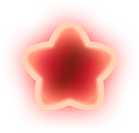
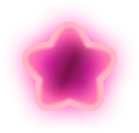
fix: selected color amount is now properly set and send

diff --git a/src/main/resources/view/demo.js b/src/main/resources/view/demo.js
@@ -1,2 +1,2 @@
 export const demo = 
-{"views":["KEY_FRAME 0\n{\"global\":{\"graphics\":\"24\\n1 -1 5\\n-1 -1 12\\n3 -1 33\\n-3 -1 46\\n0 -3 28\\n2 -3 30\\n4 -3 54\\n-1 4 38\\n-3 4 40\\n0 2 7\\n-2 2 9\\n-4 2 43\\n2 2 59\\n-1 0 3\\n1 0 6\\n-3 0 25\\n3 0 34\\n0 -2 13\\n2 -2 15\\n-2 -2 47\\n4 -2 55\\n1 -4 50\\n3 -4 52\\n0 3 19\\n-2 3 21\\n-4 3 42\\n-1 1 2\\n1 1 18\\n-3 1 24\\n3 1 58\\n0 -1 4\\n2 -1 16\\n-2 -1 26\\n4 -1 56\\n1 -3 29\\n3 -3 31\\n-1 -3 48\\n0 4 37\\n-2 4 39\\n-4 4 41\\n-1 2 8\\n-3 2 23\\n1 2 36\\n0 0 0\\n-2 0 11\\n2 0 17\\n-4 0 45\\n4 0 57\\n1 -2 14\\n-1 -2 27\\n3 -2 32\\n0 -4 49\\n2 -4 51\\n4 -4 53\\n-1 3 20\\n-3 3 22\\n1 3 60\\n0 1 1\\n-2 1 10\\n2 1 35\\n-4 1 44\"},\"frame\":{\"duration\":500,\"graphics\":\"0\\n0\\n\\n0\\n\"}}\n","KEY_FRAME 1\n{\"graphics\":\"0\\n0\\n\\n0\\n\"}\n","KEY_FRAME 2\n{\"graphics\":\"0\\n0\\n\\n0\\n\"}\n","KEY_FRAME 3\n{\"graphics\":\"0\\n0\\n\\n0\\n\"}\n","KEY_FRAME 4\n{\"graphics\":\"0\\n0\\n\\n0\\n\"}\n","KEY_FRAME 5\n{\"graphics\":\"0\\n0\\n\\n0\\n\"}\n","KEY_FRAME 6\n{\"graphics\":\"0\\n0\\n\\n0\\n\"}\n","KEY_FRAME 7\n{\"graphics\":\"0\\n0\\n\\n0\\n\"}\n","KEY_FRAME 8\n{\"graphics\":\"0\\n0\\n\\n0\\n\"}\n","KEY_FRAME 9\n{\"graphics\":\"0\\n0\\n\\n0\\n\"}\n","KEY_FRAME 10\n{\"graphics\":\"0\\n0\\n\\n0\\n\"}\n","KEY_FRAME 11\n{\"graphics\":\"0\\n0\\n\\n0\\n\"}\n","KEY_FRAME 12\n{\"graphics\":\"0\\n0\\n\\n0\\n\"}\n","KEY_FRAME 13\n{\"graphics\":\"0\\n0\\n\\n0\\n\"}\n","KEY_FRAME 14\n{\"graphics\":\"0\\n0\\n\\n0\\n\"}\n","KEY_FRAME 15\n{\"graphics\":\"0\\n0\\n\\n0\\n\"}\n","KEY_FRAME 16\n{\"graphics\":\"0\\n0\\n\\n0\\n\"}\n","KEY_FRAME 17\n{\"graphics\":\"0\\n0\\n\\n-1\\n\",\"endScreen\":[null,\"logo.png\",null]}\n"],"agents":[{"index":0,"name":"Player 0","avatar":"https://static.codingame.com/servlet/fileservlet?id=16085734516701&format=viewer_avatar","agentId":0},{"index":1,"name":"Player 1","avatar":"https://static.codingame.com/servlet/fileservlet?id=16085846089817&format=viewer_avatar","agentId":1}]};
+{"views":["KEY_FRAME 0\n{\"global\":{\"graphics\":\"32\\n-2 -1 4\\n-1 -1 10\\n0 -1 17\\n1 -1 24\\n2 -1 30\\n3 -1 35\\n0 -3 15\\n1 -3 22\\n2 -3 28\\n3 -3 33\\n-3 2 2\\n-2 2 7\\n-1 2 13\\n0 2 20\\n1 2 27\\n-3 0 0\\n-2 0 5\\n-1 0 11\\n0 0 18\\n1 0 25\\n2 0 31\\n3 0 36\\n-1 -2 9\\n0 -2 16\\n1 -2 23\\n2 -2 29\\n3 -2 34\\n-3 3 3\\n-2 3 8\\n-1 3 14\\n0 3 21\\n-3 1 1\\n-2 1 6\\n-1 1 12\\n0 1 19\\n1 1 26\\n2 1 32\"},\"frame\":{\"duration\":500,\"graphics\":\"0\\n0\\n0\\n0\"}}\n","KEY_FRAME 1\n{\"duration\":1000,\"graphics\":\"1\\n1\\n0 0 1 -3 3\\n0\\n0\"}\n","KEY_FRAME 2\n{\"graphics\":\"2\\n2\\n0 0 1 -3 3\\n1 1 0 1 2\\n0\\n0\"}\n","KEY_FRAME 3\n{\"graphics\":\"3\\n3\\n0 0 1 -3 3\\n1 1 0 1 2\\n2 0 1 -3 2\\n0\\n0\"}\n","KEY_FRAME 4\n{\"graphics\":\"4\\n4\\n0 0 1 -3 3\\n1 1 0 1 2\\n2 0 1 -3 2\\n3 1 0 0 3\\n0\\n0\"}\n","KEY_FRAME 5\n{\"graphics\":\"5\\n5\\n0 0 1 -3 3\\n1 1 0 1 2\\n2 0 1 -3 2\\n3 1 0 0 3\\n4 1 1 -2 3\\n0\\n0\"}\n","KEY_FRAME 6\n{\"graphics\":\"6\\n6\\n0 0 1 -3 3\\n1 1 0 1 2\\n2 0 1 -3 2\\n3 1 0 0 3\\n4 1 1 -2 3\\n5 1 0 0 2\\n0\\n0\"}\n","KEY_FRAME 7\n{\"graphics\":\"7\\n7\\n0 0 1 -3 3\\n1 1 0 1 2\\n2 0 1 -3 2\\n3 1 0 0 3\\n4 1 1 -2 3\\n5 1 0 0 2\\n6 1 1 1 1\\n0\\n0\"}\n","KEY_FRAME 8\n{\"graphics\":\"8\\n8\\n0 0 1 -3 3\\n1 1 0 1 2\\n2 0 1 -3 2\\n3 1 0 0 3\\n4 1 1 -2 3\\n5 1 0 0 2\\n6 1 1 1 1\\n7 0 0 -1 3\\n0\\n0\"}\n","KEY_FRAME 9\n{\"graphics\":\"9\\n9\\n0 0 1 -3 3\\n1 1 0 1 2\\n2 0 1 -3 2\\n3 1 0 0 3\\n4 1 1 -2 3\\n5 1 0 0 2\\n6 1 1 1 1\\n7 0 0 -1 3\\n8 1 1 -2 2\\n0\\n0\"}\n","KEY_FRAME 10\n{\"graphics\":\"10\\n10\\n0 0 1 -3 3\\n1 1 0 1 2\\n2 0 1 -3 2\\n3 1 0 0 3\\n4 1 1 -2 3\\n5 1 0 0 2\\n6 1 1 1 1\\n7 0 0 -1 3\\n8 1 1 -2 2\\n9 1 0 0 1\\n0\\n0\"}\n","KEY_FRAME 11\n{\"graphics\":\"11\\n11\\n0 0 1 -3 3\\n1 1 0 1 2\\n2 0 1 -3 2\\n3 1 0 0 3\\n4 1 1 -2 3\\n5 1 0 0 2\\n6 1 1 1 1\\n7 0 0 -1 3\\n8 1 1 -2 2\\n9 1 0 0 1\\n10 1 1 1 0\\n0\\n0\"}\n","KEY_FRAME 12\n{\"graphics\":\"12\\n12\\n0 0 1 -3 3\\n1 1 0 1 2\\n2 0 1 -3 2\\n3 1 0 0 3\\n4 1 1 -2 3\\n5 1 0 0 2\\n6 1 1 1 1\\n7 0 0 -1 3\\n8 1 1 -2 2\\n9 1 0 0 1\\n10 1 1 1 0\\n11 0 0 1 -1\\n0\\n0\"}\n","KEY_FRAME 13\n{\"graphics\":\"13\\n13\\n0 0 1 -3 3\\n1 1 0 1 2\\n2 0 1 -3 2\\n3 1 0 0 3\\n4 1 1 -2 3\\n5 1 0 0 2\\n6 1 1 1 1\\n7 0 0 -1 3\\n8 1 1 -2 2\\n9 1 0 0 1\\n10 1 1 1 0\\n11 0 0 1 -1\\n12 0 1 -1 2\\n0\\n0\"}\n","KEY_FRAME 14\n{\"graphics\":\"14\\n14\\n0 0 1 -3 3\\n1 1 0 1 2\\n2 0 1 -3 2\\n3 1 0 0 3\\n4 1 1 -2 3\\n5 1 0 0 2\\n6 1 1 1 1\\n7 0 0 -1 3\\n8 1 1 -2 2\\n9 1 0 0 1\\n10 1 1 1 0\\n11 0 0 1 -1\\n12 0 1 -1 2\\n13 0 0 3 0\\n0\\n0\"}\n","KEY_FRAME 15\n{\"graphics\":\"15\\n15\\n0 0 1 -3 3\\n1 1 0 1 2\\n2 0 1 -3 2\\n3 1 0 0 3\\n4 1 1 -2 3\\n5 1 0 0 2\\n6 1 1 1 1\\n7 0 0 -1 3\\n8 1 1 -2 2\\n9 1 0 0 1\\n10 1 1 1 0\\n11 0 0 1 -1\\n12 0 1 -1 2\\n13 0 0 3 0\\n14 0 1 1 -2\\n0\\n0\"}\n","KEY_FRAME 16\n{\"graphics\":\"16\\n16\\n0 0 1 -3 3\\n1 1 0 1 2\\n2 0 1 -3 2\\n3 1 0 0 3\\n4 1 1 -2 3\\n5 1 0 0 2\\n6 1 1 1 1\\n7 0 0 -1 3\\n8 1 1 -2 2\\n9 1 0 0 1\\n10 1 1 1 0\\n11 0 0 1 -1\\n12 0 1 -1 2\\n13 0 0 3 0\\n14 0 1 1 -2\\n15 1 0 1 -3\\n0\\n0\"}\n","KEY_FRAME 17\n{\"graphics\":\"17\\n17\\n0 0 1 -3 3\\n1 1 0 1 2\\n2 0 1 -3 2\\n3 1 0 0 3\\n4 1 1 -2 3\\n5 1 0 0 2\\n6 1 1 1 1\\n7 0 0 -1 3\\n8 1 1 -2 2\\n9 1 0 0 1\\n10 1 1 1 0\\n11 0 0 1 -1\\n12 0 1 -1 2\\n13 0 0 3 0\\n14 0 1 1 -2\\n15 1 0 1 -3\\n16 0 1 -1 1\\n0\\n0\"}\n","KEY_FRAME 18\n{\"graphics\":\"18\\n18\\n0 0 1 -3 3\\n1 1 0 1 2\\n2 0 1 -3 2\\n3 1 0 0 3\\n4 1 1 -2 3\\n5 1 0 0 2\\n6 1 1 1 1\\n7 0 0 -1 3\\n8 1 1 -2 2\\n9 1 0 0 1\\n10 1 1 1 0\\n11 0 0 1 -1\\n12 0 1 -1 2\\n13 0 0 3 0\\n14 0 1 1 -2\\n15 1 0 1 -3\\n16 0 1 -1 1\\n17 1 0 -2 1\\n0\\n0\"}\n","KEY_FRAME 19\n{\"graphics\":\"19\\n19\\n0 0 1 -3 3\\n1 1 0 1 2\\n2 0 1 -3 2\\n3 1 0 0 3\\n4 1 1 -2 3\\n5 1 0 0 2\\n6 1 1 1 1\\n7 0 0 -1 3\\n8 1 1 -2 2\\n9 1 0 0 1\\n10 1 1 1 0\\n11 0 0 1 -1\\n12 0 1 -1 2\\n13 0 0 3 0\\n14 0 1 1 -2\\n15 1 0 1 -3\\n16 0 1 -1 1\\n17 1 0 -2 1\\n18 0 1 -1 0\\n0\\n0\"}\n","KEY_FRAME 20\n{\"graphics\":\"20\\n20\\n0 0 1 -3 3\\n1 1 0 1 2\\n2 0 1 -3 2\\n3 1 0 0 3\\n4 1 1 -2 3\\n5 1 0 0 2\\n6 1 1 1 1\\n7 0 0 -1 3\\n8 1 1 -2 2\\n9 1 0 0 1\\n10 1 1 1 0\\n11 0 0 1 -1\\n12 0 1 -1 2\\n13 0 0 3 0\\n14 0 1 1 -2\\n15 1 0 1 -3\\n16 0 1 -1 1\\n17 1 0 -2 1\\n18 0 1 -1 0\\n19 0 0 0 0\\n0\\n0\"}\n","KEY_FRAME 21\n{\"graphics\":\"21\\n21\\n0 0 1 -3 3\\n1 1 0 1 2\\n2 0 1 -3 2\\n3 1 0 0 3\\n4 1 1 -2 3\\n5 1 0 0 2\\n6 1 1 1 1\\n7 0 0 -1 3\\n8 1 1 -2 2\\n9 1 0 0 1\\n10 1 1 1 0\\n11 0 0 1 -1\\n12 0 1 -1 2\\n13 0 0 3 0\\n14 0 1 1 -2\\n15 1 0 1 -3\\n16 0 1 -1 1\\n17 1 0 -2 1\\n18 0 1 -1 0\\n19 0 0 0 0\\n20 0 1 3 -1\\n0\\n0\"}\n","KEY_FRAME 22\n{\"graphics\":\"22\\n22\\n0 0 1 -3 3\\n1 1 0 1 2\\n2 0 1 -3 2\\n3 1 0 0 3\\n4 1 1 -2 3\\n5 1 0 0 2\\n6 1 1 1 1\\n7 0 0 -1 3\\n8 1 1 -2 2\\n9 1 0 0 1\\n10 1 1 1 0\\n11 0 0 1 -1\\n12 0 1 -1 2\\n13 0 0 3 0\\n14 0 1 1 -2\\n15 1 0 1 -3\\n16 0 1 -1 1\\n17 1 0 -2 1\\n18 0 1 -1 0\\n19 0 0 0 0\\n20 0 1 3 -1\\n21 0 0 -1 -1\\n0\\n0\"}\n","KEY_FRAME 23\n{\"graphics\":\"23\\n23\\n0 0 1 -3 3\\n1 1 0 1 2\\n2 0 1 -3 2\\n3 1 0 0 3\\n4 1 1 -2 3\\n5 1 0 0 2\\n6 1 1 1 1\\n7 0 0 -1 3\\n8 1 1 -2 2\\n9 1 0 0 1\\n10 1 1 1 0\\n11 0 0 1 -1\\n12 0 1 -1 2\\n13 0 0 3 0\\n14 0 1 1 -2\\n15 1 0 1 -3\\n16 0 1 -1 1\\n17 1 0 -2 1\\n18 0 1 -1 0\\n19 0 0 0 0\\n20 0 1 3 -1\\n21 0 0 -1 -1\\n22 0 1 -2 0\\n0\\n0\"}\n","KEY_FRAME 24\n{\"graphics\":\"24\\n24\\n0 0 1 -3 3\\n1 1 0 1 2\\n2 0 1 -3 2\\n3 1 0 0 3\\n4 1 1 -2 3\\n5 1 0 0 2\\n6 1 1 1 1\\n7 0 0 -1 3\\n8 1 1 -2 2\\n9 1 0 0 1\\n10 1 1 1 0\\n11 0 0 1 -1\\n12 0 1 -1 2\\n13 0 0 3 0\\n14 0 1 1 -2\\n15 1 0 1 -3\\n16 0 1 -1 1\\n17 1 0 -2 1\\n18 0 1 -1 0\\n19 0 0 0 0\\n20 0 1 3 -1\\n21 0 0 -1 -1\\n22 0 1 -2 0\\n23 0 0 -2 -1\\n0\\n0\"}\n","KEY_FRAME 25\n{\"graphics\":\"25\\n25\\n0 0 1 -3 3\\n1 1 0 1 2\\n2 0 1 -3 2\\n3 1 0 0 3\\n4 1 1 -2 3\\n5 1 0 0 2\\n6 1 1 1 1\\n7 0 0 -1 3\\n8 1 1 -2 2\\n9 1 0 0 1\\n10 1 1 1 0\\n11 0 0 1 -1\\n12 0 1 -1 2\\n13 0 0 3 0\\n14 0 1 1 -2\\n15 1 0 1 -3\\n16 0 1 -1 1\\n17 1 0 -2 1\\n18 0 1 -1 0\\n19 0 0 0 0\\n20 0 1 3 -1\\n21 0 0 -1 -1\\n22 0 1 -2 0\\n23 0 0 -2 -1\\n24 1 1 3 -2\\n0\\n0\"}\n","KEY_FRAME 26\n{\"graphics\":\"26\\n26\\n0 0 1 -3 3\\n1 1 0 1 2\\n2 0 1 -3 2\\n3 1 0 0 3\\n4 1 1 -2 3\\n5 1 0 0 2\\n6 1 1 1 1\\n7 0 0 -1 3\\n8 1 1 -2 2\\n9 1 0 0 1\\n10 1 1 1 0\\n11 0 0 1 -1\\n12 0 1 -1 2\\n13 0 0 3 0\\n14 0 1 1 -2\\n15 1 0 1 -3\\n16 0 1 -1 1\\n17 1 0 -2 1\\n18 0 1 -1 0\\n19 0 0 0 0\\n20 0 1 3 -1\\n21 0 0 -1 -1\\n22 0 1 -2 0\\n23 0 0 -2 -1\\n24 1 1 3 -2\\n25 0 0 3 -3\\n0\\n0\"}\n","KEY_FRAME 27\n{\"graphics\":\"27\\n27\\n0 0 1 -3 3\\n1 1 0 1 2\\n2 0 1 -3 2\\n3 1 0 0 3\\n4 1 1 -2 3\\n5 1 0 0 2\\n6 1 1 1 1\\n7 0 0 -1 3\\n8 1 1 -2 2\\n9 1 0 0 1\\n10 1 1 1 0\\n11 0 0 1 -1\\n12 0 1 -1 2\\n13 0 0 3 0\\n14 0 1 1 -2\\n15 1 0 1 -3\\n16 0 1 -1 1\\n17 1 0 -2 1\\n18 0 1 -1 0\\n19 0 0 0 0\\n20 0 1 3 -1\\n21 0 0 -1 -1\\n22 0 1 -2 0\\n23 0 0 -2 -1\\n24 1 1 3 -2\\n25 0 0 3 -3\\n26 1 1 0 -1\\n0\\n0\"}\n","KEY_FRAME 28\n{\"graphics\":\"28\\n28\\n0 0 1 -3 3\\n1 1 0 1 2\\n2 0 1 -3 2\\n3 1 0 0 3\\n4 1 1 -2 3\\n5 1 0 0 2\\n6 1 1 1 1\\n7 0 0 -1 3\\n8 1 1 -2 2\\n9 1 0 0 1\\n10 1 1 1 0\\n11 0 0 1 -1\\n12 0 1 -1 2\\n13 0 0 3 0\\n14 0 1 1 -2\\n15 1 0 1 -3\\n16 0 1 -1 1\\n17 1 0 -2 1\\n18 0 1 -1 0\\n19 0 0 0 0\\n20 0 1 3 -1\\n21 0 0 -1 -1\\n22 0 1 -2 0\\n23 0 0 -2 -1\\n24 1 1 3 -2\\n25 0 0 3 -3\\n26 1 1 0 -1\\n27 1 0 -1 -2\\n0\\n0\"}\n","KEY_FRAME 29\n{\"graphics\":\"29\\n29\\n0 0 1 -3 3\\n1 1 0 1 2\\n2 0 1 -3 2\\n3 1 0 0 3\\n4 1 1 -2 3\\n5 1 0 0 2\\n6 1 1 1 1\\n7 0 0 -1 3\\n8 1 1 -2 2\\n9 1 0 0 1\\n10 1 1 1 0\\n11 0 0 1 -1\\n12 0 1 -1 2\\n13 0 0 3 0\\n14 0 1 1 -2\\n15 1 0 1 -3\\n16 0 1 -1 1\\n17 1 0 -2 1\\n18 0 1 -1 0\\n19 0 0 0 0\\n20 0 1 3 -1\\n21 0 0 -1 -1\\n22 0 1 -2 0\\n23 0 0 -2 -1\\n24 1 1 3 -2\\n25 0 0 3 -3\\n26 1 1 0 -1\\n27 1 0 -1 -2\\n28 1 1 -3 1\\n0\\n0\"}\n","KEY_FRAME 30\n{\"graphics\":\"30\\n30\\n0 0 1 -3 3\\n1 1 0 1 2\\n2 0 1 -3 2\\n3 1 0 0 3\\n4 1 1 -2 3\\n5 1 0 0 2\\n6 1 1 1 1\\n7 0 0 -1 3\\n8 1 1 -2 2\\n9 1 0 0 1\\n10 1 1 1 0\\n11 0 0 1 -1\\n12 0 1 -1 2\\n13 0 0 3 0\\n14 0 1 1 -2\\n15 1 0 1 -3\\n16 0 1 -1 1\\n17 1 0 -2 1\\n18 0 1 -1 0\\n19 0 0 0 0\\n20 0 1 3 -1\\n21 0 0 -1 -1\\n22 0 1 -2 0\\n23 0 0 -2 -1\\n24 1 1 3 -2\\n25 0 0 3 -3\\n26 1 1 0 -1\\n27 1 0 -1 -2\\n28 1 1 -3 1\\n29 1 0 0 -2\\n0\\n0\"}\n","KEY_FRAME 31\n{\"graphics\":\"30\\n30\\n0 0 1 -3 3\\n1 1 0 1 2\\n2 0 1 -3 2\\n3 1 0 0 3\\n4 1 1 -2 3\\n5 1 0 0 2\\n6 1 1 1 1\\n7 0 0 -1 3\\n8 1 1 -2 2\\n9 1 0 0 1\\n10 1 1 1 0\\n11 0 0 1 -1\\n12 0 1 -1 2\\n13 0 0 3 0\\n14 0 1 1 -2\\n15 1 0 1 -3\\n16 0 1 -1 1\\n17 1 0 -2 1\\n18 0 1 -1 0\\n19 0 0 0 0\\n20 0 1 3 -1\\n21 0 0 -1 -1\\n22 0 1 -2 0\\n23 0 0 -2 -1\\n24 1 1 3 -2\\n25 0 0 3 -3\\n26 1 1 0 -1\\n27 1 0 -1 -2\\n28 1 1 -3 1\\n29 1 0 0 -2\\n100\\n-1\",\"endScreen\":[[100,-1],\"logo.png\",[\"100\",\"-1\"]]}\n"],"agents":[{"index":0,"name":"Tororo","avatar":"https://static.codingame.com/servlet/fileservlet?id=61910307869345","agentId":0},{"index":1,"name":"Ghilbib","avatar":"https://static.codingame.com/servlet/fileservlet?id=61910289640958","agentId":1}]};

diff --git a/src/main/resources/view/graphics/hex.js b/src/main/resources/view/graphics/hex.js
@@ -5,7 +5,9 @@ export const HEXAGON_RADIUS = HEXAGON_HEIGHT / 2;
 export const HEXAGON_WIDTH = HEXAGON_RADIUS * Math.sqrt(3);
 export const HEXAGON_Y_SEP = HEXAGON_RADIUS * 3 / 2;
 export function hexToScreen(q, r) {
-	const y = HEXAGON_RADIUS * (Math.sqrt(3) * q + Math.sqrt(3) / 2 * r);
-	const x = HEXAGON_RADIUS * 3 / 2 * r;
+	const separator = Math.sqrt(3);
+	const s = -q - r;
+	const y = -(HEXAGON_RADIUS * (separator * s + separator / 2 * q));
+	const x = HEXAGON_RADIUS * 3 / 2 * q;
 	return { x, y };
 }

diff --git a/src/main/resources/view/graphics/ViewModule.js b/src/main/resources/view/graphics/ViewModule.js
@@ -312,7 +312,7 @@ export class ViewModule {
 			}
 			else if (!chipBefore && chipNow) {
 				console.log("NEW CHIP ADDED!");
-				chip.mainSprite.texture = PIXI.Texture.from(`Star${colorName}.png`);
+				chip.mainSprite.texture = PIXI.Texture.from(`Star${colorName}${chipNow.color}.png`);
 				chip.mainSprite.alpha = 1;
 				chip.mainSprite.visible = true;
 				const hexaP = this.screenToBoard(hexToScreen(chipNow.q, chipNow.r));

diff --git a/src/main/java/com/codingame/game/Game.java b/src/main/java/com/codingame/game/Game.java
@@ -13,6 +13,7 @@ import java.util.stream.Collectors;
 import java.util.stream.Stream;
 
 import com.codingame.game.action.Action;
+import com.codingame.game.exception.CellAlreadyOccupiedException;
 import com.codingame.game.exception.CellNotFoundException;
 import com.codingame.game.exception.CellNotValidException;
 import com.codingame.game.exception.UnrecognizedActionException;
@@ -45,7 +46,7 @@ public class Game {
 		random = new Random(seed);
 		board = BoardGenerator.generate(random);
 		chipManager.init(gameManager);
-		this.gravity = Gravity.SOUTH_EAST;
+		this.gravity = Gravity.SOUTH;
 		this.placedChips = new ArrayList<>(Config.CELL_COUNT);
 
 		round = 0;
@@ -89,8 +90,8 @@ public class Game {
 		}
 		//invalidColumns
 		lines.add(String.valueOf(columns.size()));
-		for (int invalidIndex : columns) {
-			lines.add(String.valueOf(invalidIndex));
+		for (int i = columns.size() - 1; i >= 0; i--) {
+			lines.add(String.valueOf(columns.get(i)));
 		}
 
 		//newChips
@@ -116,7 +117,7 @@ public class Game {
 		}
 
 		//selectedColors
-		int amountOfSelectedColors = Config.COLORS_PER_ROUND;
+		int amountOfSelectedColors = chipManager.selectedAmount;
 		lines.add(String.valueOf(amountOfSelectedColors));
 		int[] selectedColors = new int[amountOfSelectedColors];
 		int index = 0;
@@ -178,34 +179,36 @@ public class Game {
 				biggestConnection[chip.getOwner().getIndex()].updateIfBigger(chip.colorId, length);
 			}
 		}
+		gameManager.addToGameSummary("Red: length: " + biggestConnection[0].length);
+		gameManager.addToGameSummary("Blue:  length: " + biggestConnection[1].length);
 		//No winner
 		if (biggestConnection[0].length < Config.WIN_LENGTH && biggestConnection[1].length < Config.WIN_LENGTH) {
 			return GameResult.IN_PROGRESS;
 		}
 		//Blue wins
 		if (biggestConnection[0].length > biggestConnection[1].length) {
-			return GameResult.WIN_PLAYER_ONE;
+			return GameResult.WIN_PLAYER_TWO;
 		}
 		//Red wins
 		if (biggestConnection[1].length > biggestConnection[0].length) {
-			return GameResult.WIN_PLAYER_TWO;
+			return GameResult.WIN_PLAYER_ONE;
 		}
 		//Possible tie
 		long amountOfBlueChips = placedChips.stream()
 			.filter(c -> 
-				(c.colorId == biggestConnection[0].colorIndex &&
+				(c.colorId == biggestConnection[1].colorIndex &&
 				c.getOwner().getIndex() == 1))
 			.count();
 		long amountOfRedChips = placedChips.stream()
 			.filter(c -> 
-				(c.colorId == biggestConnection[1].colorIndex &&
-				c.getOwner().getIndex() == 1))
+				(c.colorId == biggestConnection[0].colorIndex &&
+				c.getOwner().getIndex() == 0))
 			.count();
 		if (amountOfBlueChips > amountOfRedChips) {
-			return GameResult.WIN_PLAYER_ONE;
+			return GameResult.WIN_PLAYER_TWO;
 		}
 		if (amountOfRedChips > amountOfBlueChips) {
-			return GameResult.WIN_PLAYER_TWO;
+			return GameResult.WIN_PLAYER_ONE;
 		}
 		return GameResult.TIE;
 	}
@@ -273,13 +276,10 @@ public class Game {
 
 	private Chip doDrop(Player player, Action action) throws GameException {
 		HexCoord startingLocation = board.getTopOfColumn(gravity, action.targetId);
-		if (startingLocation == null) {
-			//really shouldnt happen
-		}
+		assert(startingLocation != null);
 		Cell cell = getBoard().get(startingLocation);
 		if (cell == null || cell.getChip() != null) {
-			//throw exception
-			//position out of bounds, or already occupied by another chip
+			throw new CellAlreadyOccupiedException(cell.getIndex());
 		}
 		//create the chip
 		Chip chip = chipManager.createChip(player, action.colorId, startingLocation);
@@ -288,7 +288,9 @@ public class Game {
 		other.addToUnknown(chip);
 		//add it to the chips list
 		placedChips.add(chip);
-
+		cell = getBoard().get(chip.getCoord());
+		cell.setChip(chip);
+		
 		dropChip(chip, null);
 
 		//move rest of selection back to remaining
@@ -367,6 +369,7 @@ public class Game {
 	}
 
 	public void performGameUpdate(Player player) {
+		gameManager.addToGameSummary("Round:" + round );
 		turn++;
 		round++;
 
@@ -397,6 +400,10 @@ public class Game {
 			}
 		} catch (GameException e) {
 			gameSummaryManager.addError(player.getNicknameToken() + ": " + e.getMessage());
+			gameManager.getPlayer(1 - player.getIndex()).setScore(100);
+			player.setScore(-1);
+			gameManager.endGame();
+			return;
 		}
 		gameManager.setFrameDuration(1000);
 	}

diff --git a/src/test/java/Player1.java b/src/test/java/Player1.java
@@ -57,7 +57,8 @@ public class Player1 {
 		Scanner in = new Scanner(System.in);
 		Random random = new Random();
 		long seed = random.nextLong();
-		System.err.println("Player1 random seed is " + seed);
+		System.err.println("Player2 random seed is " + seed);
+
 		//Start of Initial input
 		int numberOfCells = in.nextInt();
 		ArrayList<Cell>	board = new ArrayList<>(numberOfCells);
@@ -72,7 +73,7 @@ public class Player1 {
 
 		int numberOfColumns = in.nextInt();
 		ArrayList<InsertPosition>	columns = new ArrayList<>(numberOfColumns);
-		ArrayList<Chip>				chips = new ArrayList<>(numberOfColumns);
+		ArrayList<Chip>				chips = new ArrayList<>(numberOfCells);
 		for (int i = 0; i < numberOfColumns; i++) {
 			int[] directions = new int[6];
 			for (int n = 0; n < 6; n++) {
@@ -96,9 +97,9 @@ public class Player1 {
 			int gravity = in.nextInt();
 
 			int numberOfInvalidColumns = in.nextInt();
-			int[] invalid = new int[numberOfInvalidColumns];
+			List<Integer>	validColumns = IntStream.range(0,numberOfColumns).boxed().collect(Collectors.toList());
 			for (int i = 0; i < numberOfInvalidColumns; i++) {
-				invalid[i] = in.nextInt();
+				validColumns.remove(in.nextInt());
 			}
 
 			int numberOfNewChips = in.nextInt();
@@ -119,19 +120,13 @@ public class Player1 {
 				chips.get(chipIndex).updatePosition(newCellIndex);
 			}
 
-			int numberofColorsInHand = in.nextInt();
-			int[] possibleColors = new int[numberofColorsInHand];
-			for (int i = 0; i < numberofColorsInHand; i++) {
+			int numberOfPelletsInHand = in.nextInt();
+			int[] possibleColors = new int[numberOfPelletsInHand];
+			for (int i = 0; i < numberOfPelletsInHand; i++) {
 				possibleColors[i] = in.nextInt();
 			}
 
-			//Check which places are valid to place a Chip at
-			List<Integer> validColumnIndices = IntStream.range(0,numberOfColumns).boxed().collect(Collectors.toList());
-			for (int i = 0; i < invalid.length; i++) {
-				validColumnIndices.remove(invalid[i]);
-			}
-
-			int column = random.nextInt(validColumnIndices.size());
+			int column = validColumns.get(random.nextInt(validColumns.size()));
 			int color = possibleColors[random.nextInt(possibleColors.length)];
 			System.out.printf("DROP %d %d%n", column, color);
 		}

diff --git a/src/test/java/Player2.java b/src/test/java/Player2.java
@@ -6,6 +6,8 @@ import java.util.Scanner;
 import java.util.stream.Collectors;
 import java.util.stream.IntStream;
 
+import com.google.common.primitives.Ints;
+
 public class Player2 {
 
 	private static class Chip {
@@ -73,7 +75,7 @@ public class Player2 {
 
 		int numberOfColumns = in.nextInt();
 		ArrayList<InsertPosition>	columns = new ArrayList<>(numberOfColumns);
-		ArrayList<Chip>				chips = new ArrayList<>(numberOfColumns);
+		ArrayList<Chip>				chips = new ArrayList<>(numberOfCells);
 		for (int i = 0; i < numberOfColumns; i++) {
 			int[] directions = new int[6];
 			for (int n = 0; n < 6; n++) {
@@ -97,9 +99,9 @@ public class Player2 {
 			int gravity = in.nextInt();
 
 			int numberOfInvalidColumns = in.nextInt();
-			int[] invalid = new int[numberOfInvalidColumns];
+			List<Integer>	validColumns = IntStream.range(0,numberOfColumns).boxed().collect(Collectors.toList());
 			for (int i = 0; i < numberOfInvalidColumns; i++) {
-				invalid[i] = in.nextInt();
+				validColumns.remove(in.nextInt());
 			}
 
 			int numberOfNewChips = in.nextInt();
@@ -126,13 +128,7 @@ public class Player2 {
 				possibleColors[i] = in.nextInt();
 			}
 
-			//Check which places are valid to place a Chip at
-			List<Integer> validColumnIndices = IntStream.range(0,numberOfColumns).boxed().collect(Collectors.toList());
-			for (int i = 0; i < invalid.length; i++) {
-				validColumnIndices.remove(invalid[i]);
-			}
-
-			int column = random.nextInt(validColumnIndices.size());
+			int column = validColumns.get(random.nextInt(validColumns.size()));
 			int color = possibleColors[random.nextInt(possibleColors.length)];
 			System.out.printf("DROP %d %d%n", column, color);
 		}

diff --git a/src/test/java/Main.java b/src/test/java/Main.java
@@ -1,19 +1,25 @@
 import com.codingame.gameengine.runner.MultiplayerGameRunner;
 
 public class Main {
-    public static void main(String[] args) {
-        
-        MultiplayerGameRunner gameRunner = new MultiplayerGameRunner();
-        gameRunner.addAgent(Player1.class);
-        gameRunner.addAgent(Player2.class);
-        
-        // gameRunner.addAgent("python3 /home/user/player.py");
-        
-        // The first league is classic tic-tac-toe
-        gameRunner.setLeagueLevel(1);
-        // The second league is ultimate tic-tac-toe
-        // gameRunner.setLeagueLevel(2);
-        
-        gameRunner.start();
-    }
+	public static void main(String[] args) {
+		
+		MultiplayerGameRunner gameRunner = new MultiplayerGameRunner();
+		gameRunner.addAgent(Player1.class,
+			"Tororo",
+			"https://static.codingame.com/servlet/fileservlet?id=61910307869345"
+		);
+		gameRunner.addAgent(Player2.class,
+			"Ghilbib",
+			"https://static.codingame.com/servlet/fileservlet?id=61910289640958"
+		);
+		
+		// gameRunner.addAgent("python3 /home/user/player.py");
+		
+		// The first league is classic tic-tac-toe
+		gameRunner.setLeagueLevel(1);
+		// The second league is ultimate tic-tac-toe
+		// gameRunner.setLeagueLevel(2);
+		
+		gameRunner.start();
+	}
 }

diff --git a/src/main/java/com/codingame/game/ChipManager.java b/src/main/java/com/codingame/game/ChipManager.java
@@ -15,11 +15,14 @@ import java.util.List;
 @Singleton
 public class ChipManager {
 	private static int index = 0;
+	public int selectedAmount;
 	int[][] remainingChips;
 	int[][] selectedChips;
 	Random	random;
+	private MultiplayerGameManager<Player> gameManager;
 	
 	public void init(MultiplayerGameManager<Player> gameManager) {
+		this.gameManager = gameManager;
 		this.random = new Random(gameManager.getSeed());
 		this.remainingChips = new int[gameManager.getPlayerCount()][Config.COLORS_PER_PLAYER];
 		this.selectedChips = new int[gameManager.getPlayerCount()][Config.COLORS_PER_PLAYER];
@@ -71,6 +74,9 @@ public class ChipManager {
 			selectedChips[index][choice]++;
 			selected++;
 		}
+		gameManager.addToGameSummary("Chips selected for " + player.getNicknameToken() + ":\n0: " + selectedChips[index][0] + "\n1: " + selectedChips[index][1]);
+		gameManager.addToGameSummary("Chips remaining for " + player.getNicknameToken() + ":\n0: " + remainingChips[index][0] + "\n1: " + remainingChips[index][1]);
+		this.selectedAmount = selected;
 		return selected != 0;
 	}
 

diff --git a/src/main/java/com/codingame/game/Referee.java b/src/main/java/com/codingame/game/Referee.java
@@ -101,6 +101,10 @@ public class Referee extends AbstractReferee {
 			if (player.isActive()) {
 				game.performGameUpdate(player);
 			}
+			else {
+				setWinner(gameManager.getPlayer(1 - player.getIndex()));
+				return ;
+			}
 		}
 		catch (TimeoutException e) {
 			commandParser.deactivatePlayer(player, "Timeout!");
@@ -113,14 +117,14 @@ public class Referee extends AbstractReferee {
 				break;
 			}
 			case WIN_PLAYER_ONE: {
-				gameManager.getPlayer(0).setScore(100);
-				gameManager.getPlayer(1).setScore(0);
+				gameManager.getPlayer(1).setScore(100);
+				gameManager.getPlayer(0).setScore(0);
 				endGame();
 				break;
 			}
 			case WIN_PLAYER_TWO: {
-				gameManager.getPlayer(1).setScore(100);
-				gameManager.getPlayer(0).setScore(0);
+				gameManager.getPlayer(0).setScore(100);
+				gameManager.getPlayer(1).setScore(0);
 				endGame();
 				break;
 			}

diff --git a/src/main/java/com/codingame/game/Connection.java b/src/main/java/com/codingame/game/Connection.java
@@ -1,7 +1,6 @@
 package com.codingame.game;
 
 public class Connection {
-	public int playerIndex;
 	public int colorIndex;
 	public int length;
 
@@ -11,7 +10,7 @@ public class Connection {
 	}
 
 	public void updateIfBigger(int color, int length) {
-		if (this.length >= length)
+		if (length <= this.length)
 			return;
 		this.length = length;
 		this.colorIndex = color;

diff --git a/src/main/java/com/codingame/game/exception/CellAlreadyOccupiedException.java b/src/main/java/com/codingame/game/exception/CellAlreadyOccupiedException.java
@@ -1,0 +1,8 @@
+package com.codingame.game.exception;
+
+@SuppressWarnings("serial")
+public class CellAlreadyOccupiedException extends GameException {
+	public CellAlreadyOccupiedException(int id) {
+		super("Cell with index " + id + " already contains a chip");
+	}
+}

diff --git a/src/main/java/com/codingame/game/HexCoord.java b/src/main/java/com/codingame/game/HexCoord.java
@@ -3,8 +3,8 @@ package com.codingame.game;
 public class HexCoord {
 	static int directions[][] = new int[][] {
 		{ 0, 1,-1},
-		{-1,+1, 0},
-		{-1, 0,+1},
+		{-1, 1, 0},
+		{-1, 0, 1},
 		{ 0,-1, 1},
 		{ 1,-1, 0},
 		{ 1, 0,-1}
